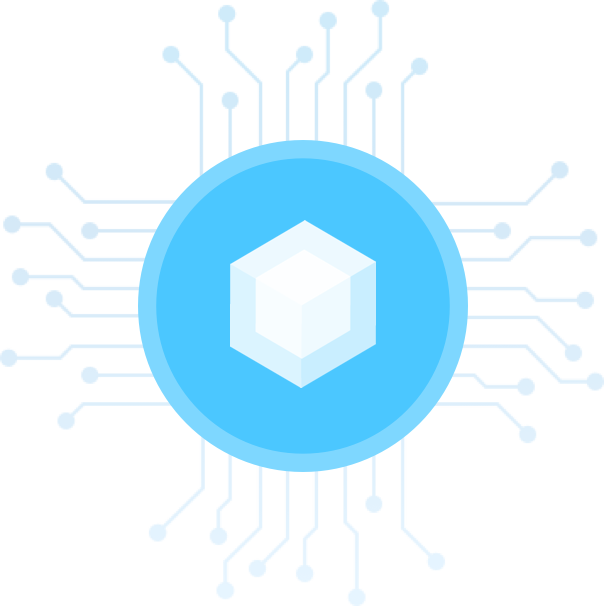
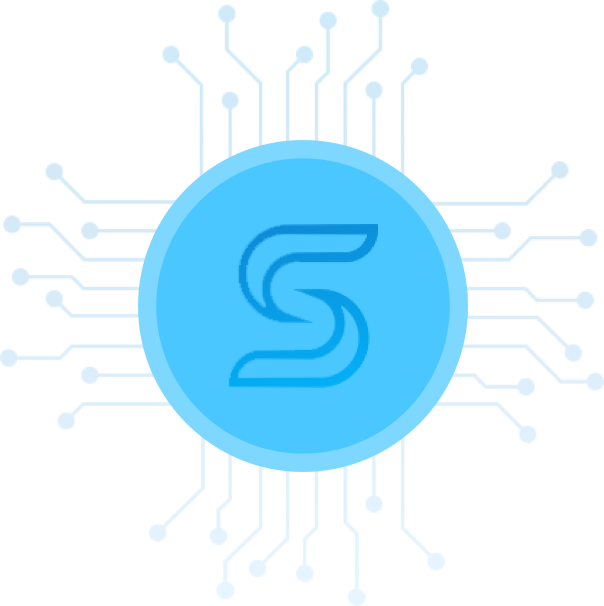
update token image and add missing bg color to intro

Changed region(s): [[0.3576, 0.3564, 0.6258, 0.6535]]

diff --git a/app/assets/stylesheets/homepage/_intro.scss b/app/assets/stylesheets/homepage/_intro.scss
@@ -4,6 +4,8 @@ section.intro {
   color: #FFF;
   position: relative;
   padding-bottom: 60px;
+  background-color: #0a68a8;
+
   @media(min-width: $medium) {}
   @media(min-width: $large) {
     background-color: #0665B0;
